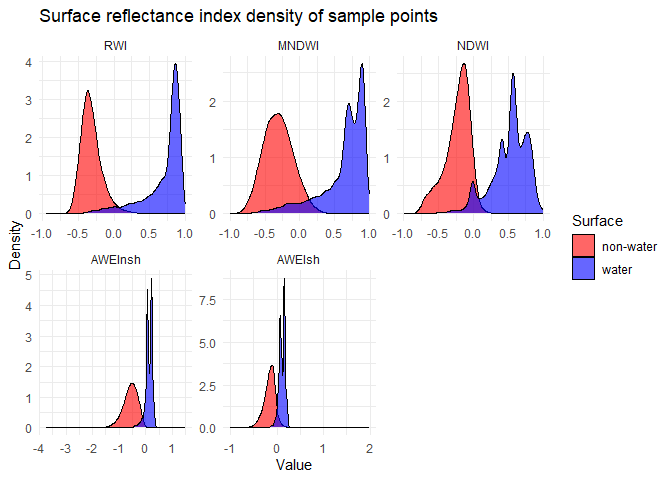
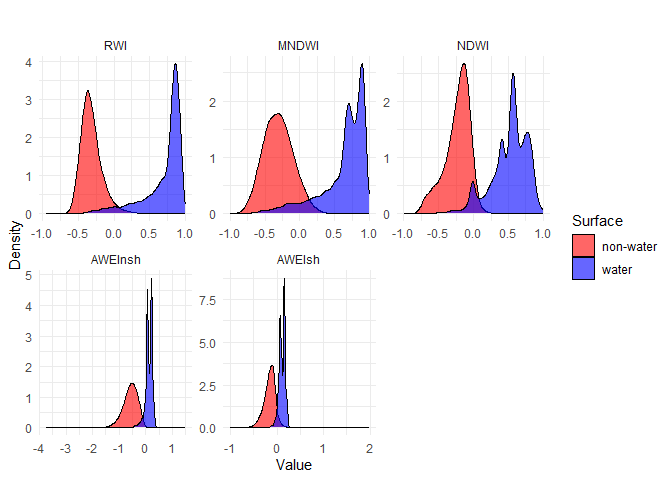
fix: labs titles fixed

Changed region(s): [[0.0625, 0.0, 0.6562, 0.0625]]

diff --git a/README.md b/README.md
@@ -187,7 +187,7 @@ df_SR_rwi %>% split(.$surface) %>%
     ## non.water -0.9422513 0.5658038
     ## water     -0.5333735 0.9970163
 
-# Plot the RWI vs surface type for all cities
+### Plot the RWI vs surface type for all cities
 
 ``` r
 df_SR_rwi %>% 
@@ -244,9 +244,8 @@ df_SR_all %>% dplyr::select(RWI, NDWI, MNDWI, AWEIsh, AWEInsh, surface) %>%
          index = factor(index, levels = c('RWI', 'MNDWI', 'NDWI', 'AWEInsh', 'AWEIsh'))) %>%
   ggplot2::ggplot(aes(x = value, fill = surface)) +
   ggplot2::geom_density(alpha = 0.6) +
-  # facet_wrap(~index, ncol = 2, scales = "free") +
   ggplot2::facet_wrap(~index, scales = c("fixed", "free")[2]) +
-  labs(title = "Surface reflectance index density of sample points",
+  labs(title = " ",
        x = "Value",
        y = "Density") +
   scale_fill_manual(values = c("water" = "blue", "non-water" = "red")) +
